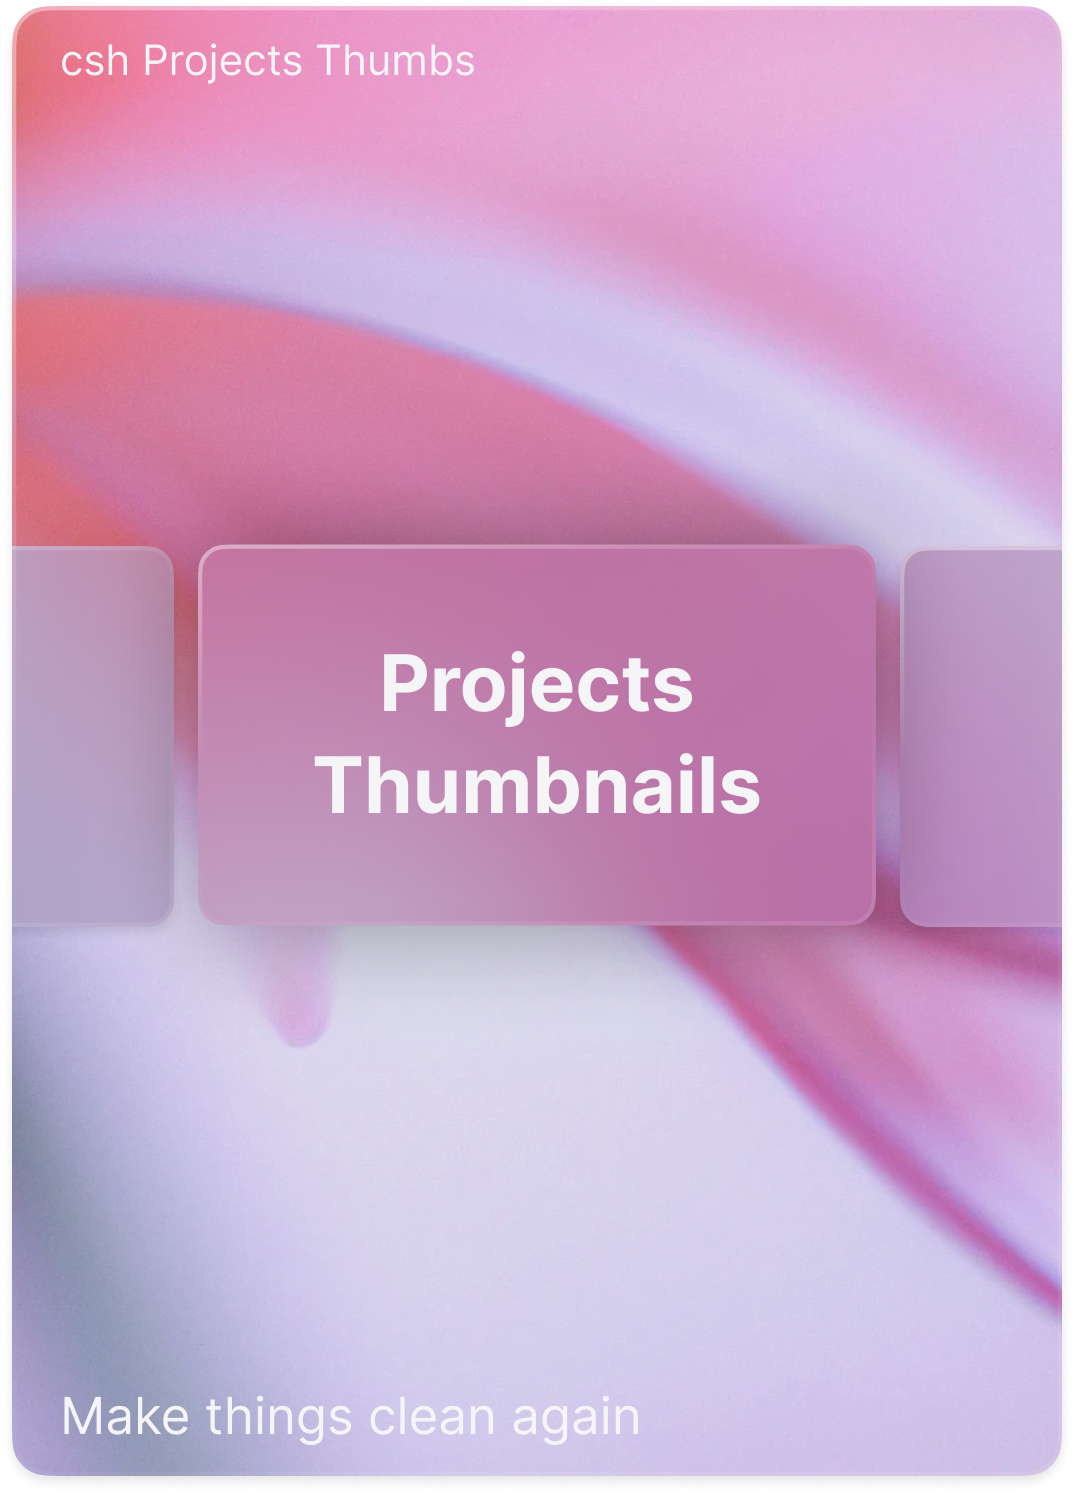
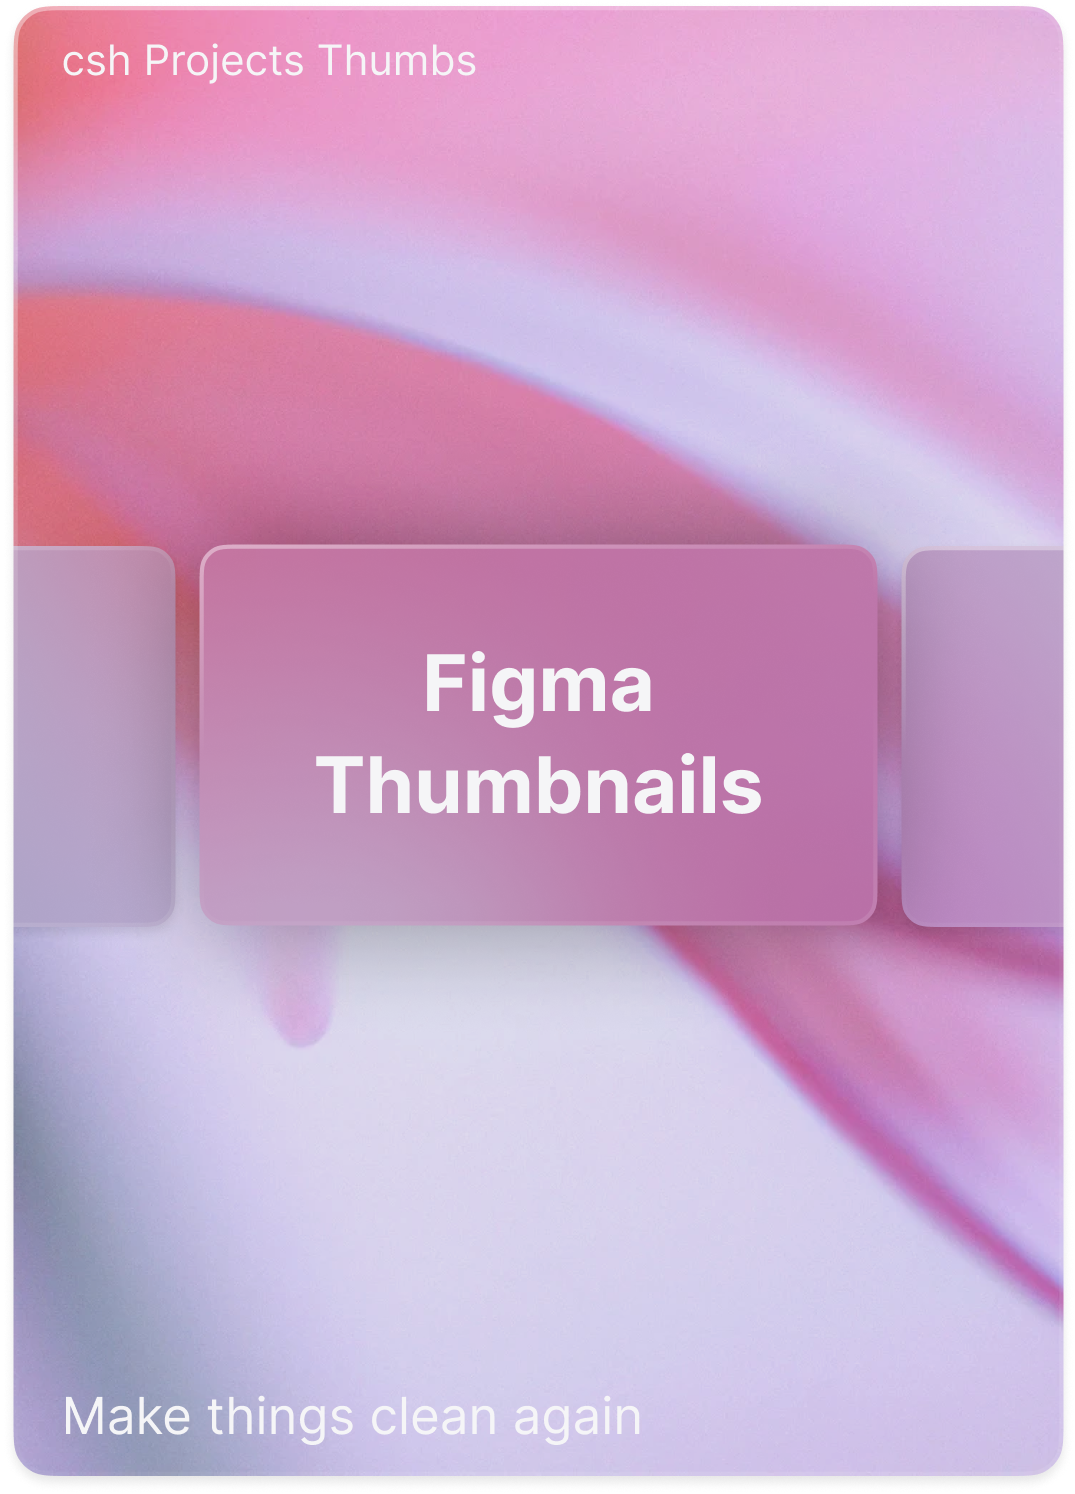
page designs terminé à 80%

diff --git a/src/components/Carrousel/Design-graphicdesing.tsx b/src/components/Carrousel/Design-graphicdesing.tsx
@@ -5,12 +5,12 @@ import { Navigation } from 'swiper/modules';
 import 'swiper/css';
 import 'swiper/css/navigation';
 
-export default function WebDesignCarousel() {
-  const webSlides = [
-    { id: 1, title: 'Skorpia.fr', bio: 'Redécouvrez l\'hebergement.', href: 'https://skorpia.fr', img: '/design/skorpia.png'},
-    { id: 2, title: 'Avalanche.tv', bio: 'A new universe to create.', href: 'https://avalanche.tv', img: '/design/avalanche.png'},
-    { id: 3, title: 'Wikipedia.org', bio: 'Simplicity at the core.', href: '/design/wikipedia', img: '/design/wikipedia.png'},
-    { id: 4, title: 'Croissantage.com', bio: 'Cyber-eductation for your team.', href: 'https://croissantage.com', img: '/design/croissantage.png'},
+export default function GraphicDesignCarousel() {
+  const graphicSlides = [
+    { id: 1, title: 'Arc commpagny sum', bio: 'Annual review catalog', href: '/design', img: '/design/arc.png'},
+    { id: 2, title: 'Beauregard 2026', bio: 'Musical festival poster', href: '/design', img: '/design/beauregard2026.png'},
+    { id: 3, title: 'Modern Bauhaus', bio: 'Modern Bauhaus poster', href: '/design', img: '/design/bauhaus.png'},
+    { id: 4, title: 'Arcane New Typo', bio: 'New Typo Arcane poster', href: '/design', img: '/design/arcane.png'},
 
   ];
 
@@ -18,12 +18,12 @@ export default function WebDesignCarousel() {
     <div className="max-w mx-auto py-8 gap-4">
       <div className="flex mx-auto items-center justify-between items-center max-w-[1100px] py-8">  
             <h2 className=" text-[16px] lg:text-[26px] font-semibold text-gris_2">
-                <span className="text-noir dark:text-blanc">Web Design.</span> Seamless and intuitive online experiences.
+                <span className="text-noir dark:text-blanc">Graphic Design.</span> Beauty that elevates your message.
             </h2>
             {/* Flèches personnalisées */}
-            <div className="flex ">
+            <div className="flex">
                 <button
-                className="swiper-button-prev-custom p-4"
+                className="swiper-button-prev-custom-3 p-4"
                 aria-label="back"
                 >
                 <svg width="24" height="24" viewBox="0 0 20 20" fill="none" xmlns="http://www.w3.org/2000/svg">
@@ -32,7 +32,7 @@ export default function WebDesignCarousel() {
                 </button>
 
                 <button
-                className="swiper-button-next-custom p-4"
+                className="swiper-button-next-custom-3 p-4"
                 aria-label="next"
                 >
                     <svg width="24" height="24" viewBox="0 0 20 20" fill="none" xmlns="http://www.w3.org/2000/svg">
@@ -47,8 +47,8 @@ export default function WebDesignCarousel() {
         spaceBetween={20}
         slidesPerView={1.5}
         navigation={{
-            nextEl: '.swiper-button-next-custom',
-            prevEl: '.swiper-button-prev-custom',
+            nextEl: '.swiper-button-next-custom-3',
+            prevEl: '.swiper-button-prev-custom-3',
           }}
         breakpoints={{
           640: { slidesPerView: 2 },
@@ -57,15 +57,15 @@ export default function WebDesignCarousel() {
         className="relative flex min-w-full snap-x snap-mandatory"
         style={{ paddingLeft: "calc(50% - 68rem / 2)" }}
         >
-        {webSlides.map((webSlides) => (
-          <SwiperSlide key={webSlides.id}>
+        {graphicSlides.map((graphicSlides) => (
+          <SwiperSlide key={graphicSlides.id}>
             <a 
             className="h-[490px] w-[350px] rounded-xl !overflow-y-visible flex justify-center items-center flex flex-col transition ease-in-out hover:drop-shadow-md duration-250"            
-            href={webSlides.href}
-            target={webSlides.href.startsWith('https') ? '_blank' : undefined}
-            rel={webSlides.href.startsWith('https') ? 'noopener noreferrer' : undefined}
+            href={graphicSlides.href}
+            target={graphicSlides.href.startsWith('https') ? '_blank' : undefined}
+            rel={graphicSlides.href.startsWith('https') ? 'noopener noreferrer' : undefined}
             >
-              <img src={webSlides.img} alt={webSlides.bio} className='w-full h-full object-cover'/>
+              <img src={graphicSlides.img} alt={graphicSlides.bio} className='w-full h-full object-cover'/>
             </a>
           </SwiperSlide>
         ))}

diff --git a/src/components/Carrousel/Design-appdesing.tsx b/src/components/Carrousel/Design-appdesing.tsx
@@ -5,12 +5,11 @@ import { Navigation } from 'swiper/modules';
 import 'swiper/css';
 import 'swiper/css/navigation';
 
-export default function WebDesignCarousel() {
-  const webSlides = [
-    { id: 1, title: 'Skorpia.fr', bio: 'Redécouvrez l\'hebergement.', href: 'https://skorpia.fr', img: '/design/skorpia.png'},
-    { id: 2, title: 'Avalanche.tv', bio: 'A new universe to create.', href: 'https://avalanche.tv', img: '/design/avalanche.png'},
-    { id: 3, title: 'Wikipedia.org', bio: 'Simplicity at the core.', href: '/design/wikipedia', img: '/design/wikipedia.png'},
-    { id: 4, title: 'Croissantage.com', bio: 'Cyber-eductation for your team.', href: 'https://croissantage.com', img: '/design/croissantage.png'},
+export default function AppDesignCarousel() {
+  const appSlides = [
+    { id: 1, title: 'Wattiz', bio: 'Empower the ride', href: '/design', img: '/design/wattiz.png'},
+    { id: 2, title: 'Retro Pizza', bio: 'Street good', href: '/design', img: '/design/pizza.png'},
+    { id: 3, title: 'eMusic', bio: 'Musical freedom at your hand', href: '/design', img: '/design/emusic.png'},
 
   ];
 
@@ -18,12 +17,12 @@ export default function WebDesignCarousel() {
     <div className="max-w mx-auto py-8 gap-4">
       <div className="flex mx-auto items-center justify-between items-center max-w-[1100px] py-8">  
             <h2 className=" text-[16px] lg:text-[26px] font-semibold text-gris_2">
-                <span className="text-noir dark:text-blanc">Web Design.</span> Seamless and intuitive online experiences.
+                <span className="text-noir dark:text-blanc">App Design.</span> Designed to amaze, built to last.
             </h2>
             {/* Flèches personnalisées */}
-            <div className="flex ">
+            <div className="flex">
                 <button
-                className="swiper-button-prev-custom p-4"
+                className="swiper-button-prev-custom-2 p-4"
                 aria-label="back"
                 >
                 <svg width="24" height="24" viewBox="0 0 20 20" fill="none" xmlns="http://www.w3.org/2000/svg">
@@ -32,7 +31,7 @@ export default function WebDesignCarousel() {
                 </button>
 
                 <button
-                className="swiper-button-next-custom p-4"
+                className="swiper-button-next-custom-2 p-4"
                 aria-label="next"
                 >
                     <svg width="24" height="24" viewBox="0 0 20 20" fill="none" xmlns="http://www.w3.org/2000/svg">
@@ -47,8 +46,8 @@ export default function WebDesignCarousel() {
         spaceBetween={20}
         slidesPerView={1.5}
         navigation={{
-            nextEl: '.swiper-button-next-custom',
-            prevEl: '.swiper-button-prev-custom',
+            nextEl: '.swiper-button-next-custom-2',
+            prevEl: '.swiper-button-prev-custom-2',
           }}
         breakpoints={{
           640: { slidesPerView: 2 },
@@ -57,15 +56,15 @@ export default function WebDesignCarousel() {
         className="relative flex min-w-full snap-x snap-mandatory"
         style={{ paddingLeft: "calc(50% - 68rem / 2)" }}
         >
-        {webSlides.map((webSlides) => (
-          <SwiperSlide key={webSlides.id}>
+        {appSlides.map((appSlides) => (
+          <SwiperSlide key={appSlides.id}>
             <a 
             className="h-[490px] w-[350px] rounded-xl !overflow-y-visible flex justify-center items-center flex flex-col transition ease-in-out hover:drop-shadow-md duration-250"            
-            href={webSlides.href}
-            target={webSlides.href.startsWith('https') ? '_blank' : undefined}
-            rel={webSlides.href.startsWith('https') ? 'noopener noreferrer' : undefined}
+            href={appSlides.href}
+            target={appSlides.href.startsWith('https') ? '_blank' : undefined}
+            rel={appSlides.href.startsWith('https') ? 'noopener noreferrer' : undefined}
             >
-              <img src={webSlides.img} alt={webSlides.bio} className='w-full h-full object-cover'/>
+              <img src={appSlides.img} alt={appSlides.bio} className='w-full h-full object-cover'/>
             </a>
           </SwiperSlide>
         ))}

diff --git a/src/components/Carrousel/Design-research.tsx b/src/components/Carrousel/Design-research.tsx
@@ -5,12 +5,9 @@ import { Navigation } from 'swiper/modules';
 import 'swiper/css';
 import 'swiper/css/navigation';
 
-export default function WebDesignCarousel() {
-  const webSlides = [
-    { id: 1, title: 'Skorpia.fr', bio: 'Redécouvrez l\'hebergement.', href: 'https://skorpia.fr', img: '/design/skorpia.png'},
-    { id: 2, title: 'Avalanche.tv', bio: 'A new universe to create.', href: 'https://avalanche.tv', img: '/design/avalanche.png'},
-    { id: 3, title: 'Wikipedia.org', bio: 'Simplicity at the core.', href: '/design/wikipedia', img: '/design/wikipedia.png'},
-    { id: 4, title: 'Croissantage.com', bio: 'Cyber-eductation for your team.', href: 'https://croissantage.com', img: '/design/croissantage.png'},
+export default function ResearchCarousel() {
+  const reseearchSlides = [
+    { id: 1, title: 'Bento Trend', bio: 'La Bento trend expliqué', href: 'https://medium.com/@clement.sainthilaire.app/la-bento-trend-f3ae36719425', img: '/design/research/bento.png'},
 
   ];
 
@@ -18,12 +15,12 @@ export default function WebDesignCarousel() {
     <div className="max-w mx-auto py-8 gap-4">
       <div className="flex mx-auto items-center justify-between items-center max-w-[1100px] py-8">  
             <h2 className=" text-[16px] lg:text-[26px] font-semibold text-gris_2">
-                <span className="text-noir dark:text-blanc">Web Design.</span> Seamless and intuitive online experiences.
+                <span className="text-noir dark:text-blanc">csh Writings.</span> Insights that shape the future.
             </h2>
             {/* Flèches personnalisées */}
-            <div className="flex ">
+            <div className="flex">
                 <button
-                className="swiper-button-prev-custom p-4"
+                className="swiper-button-prev-custom-4 p-4"
                 aria-label="back"
                 >
                 <svg width="24" height="24" viewBox="0 0 20 20" fill="none" xmlns="http://www.w3.org/2000/svg">
@@ -32,7 +29,7 @@ export default function WebDesignCarousel() {
                 </button>
 
                 <button
-                className="swiper-button-next-custom p-4"
+                className="swiper-button-next-custom-4 p-4"
                 aria-label="next"
                 >
                     <svg width="24" height="24" viewBox="0 0 20 20" fill="none" xmlns="http://www.w3.org/2000/svg">
@@ -47,8 +44,8 @@ export default function WebDesignCarousel() {
         spaceBetween={20}
         slidesPerView={1.5}
         navigation={{
-            nextEl: '.swiper-button-next-custom',
-            prevEl: '.swiper-button-prev-custom',
+            nextEl: '.swiper-button-next-custom-4',
+            prevEl: '.swiper-button-prev-custom-4',
           }}
         breakpoints={{
           640: { slidesPerView: 2 },
@@ -57,15 +54,15 @@ export default function WebDesignCarousel() {
         className="relative flex min-w-full snap-x snap-mandatory"
         style={{ paddingLeft: "calc(50% - 68rem / 2)" }}
         >
-        {webSlides.map((webSlides) => (
-          <SwiperSlide key={webSlides.id}>
+        {reseearchSlides.map((reseearchSlides) => (
+          <SwiperSlide key={reseearchSlides.id}>
             <a 
             className="h-[490px] w-[350px] rounded-xl !overflow-y-visible flex justify-center items-center flex flex-col transition ease-in-out hover:drop-shadow-md duration-250"            
-            href={webSlides.href}
-            target={webSlides.href.startsWith('https') ? '_blank' : undefined}
-            rel={webSlides.href.startsWith('https') ? 'noopener noreferrer' : undefined}
+            href={reseearchSlides.href}
+            target={reseearchSlides.href.startsWith('https') ? '_blank' : undefined}
+            rel={reseearchSlides.href.startsWith('https') ? 'noopener noreferrer' : undefined}
             >
-              <img src={webSlides.img} alt={webSlides.bio} className='w-full h-full object-cover'/>
+              <img src={reseearchSlides.img} alt={reseearchSlides.bio} className='w-full h-full object-cover'/>
             </a>
           </SwiperSlide>
         ))}

diff --git a/src/components/Carrousel/Design-recentwork.tsx b/src/components/Carrousel/Design-recentwork.tsx
@@ -7,10 +7,10 @@ import 'swiper/css/navigation';
 
 export default function RecentWorkCarousel() {
   const slides = [
-    { id: 1, title: 'csh Design System', bio: 'La simplicité à votre service.', href: '/design-system', img: '/design/design-system.png'},
-    { id: 2, title: 'Figma Thumbs',  bio: '', href: '/https://www.figma.com/community/file/1421800356040679325/figma-thumbs-design-template', img: '/design/project-thumbnail.png' },
-    { id: 3, title: 'csh UI Landing Kit',  bio: '', href: '/uikit', img: '/design/landing-kit.png' },
-    { id: 4, title: 'csh Icons',  bio: '', href: '/icons', img: '/design/icons.png' },
+    { id: 1, title: 'csh Design System', bio: 'Work smarter, not harder', href: '/design-system', img: '/design/design-system.png'},
+    { id: 2, title: 'Figma Thumbs',  bio: 'Make things clean again', href: 'https://www.figma.com/community/file/1421800356040679325/figma-thumbs-design-template', img: '/design/project-thumbnail.png' },
+    { id: 3, title: 'csh UI Landing Kit',  bio: 'Made by Pro for Pros', href: '/uikit', img: '/design/landing-kit.png' },
+    { id: 4, title: 'csh Icons',  bio: 'Simply beautiful', href: '/icons', img: '/design/icons.png' },
   ];
 
   return (
@@ -59,10 +59,12 @@ export default function RecentWorkCarousel() {
         {slides.map((slide) => (
           <SwiperSlide key={slide.id}>
             <a 
-            className="h-[490px] w-[350px] rounded-xl !overflow-y-visible flex justify-center items-center flex flex-col transition ease-in-out hover:drop-shadow-md duration-250"            
-            href={slide.href}
+            className="h-[490px] w-[350px] rounded-xl !overflow-y-visible flex justify-center items-center flex flex-col"            
+            href={slide.href} 
+            target={slide.href.startsWith('https') ? '_blank' : undefined}
+            rel={slide.href.startsWith('https') ? 'noopener noreferrer' : undefined}
             >
-              <img src={slide.img} alt={slide.title} className='w-full h-full object-cover'/>
+              <img src={slide.img} alt={slide.bio} className='w-full h-full object-cover'/>
             </a>
           </SwiperSlide>
         ))}

diff --git a/src/app/design/page.tsx b/src/app/design/page.tsx
@@ -4,6 +4,9 @@ import BlurFadeText from "@/components/magicui/blur-fade-text";
 import Footer from "@/components/Footer";
 import RecentWorkCarousel from "@/components/Carrousel/Design-recentwork";  
 import WebDesignCarousel from "@/components/Carrousel/Design-webdesing";
+import AppDesignCarousel from "@/components/Carrousel/Design-appdesing";
+import GraphicDesignCarousel from "@/components/Carrousel/Design-graphicdesing";
+import ResearchCarousel from "@/components/Carrousel/Design-research";
 const BLUR_FADE_DELAY = 0.04;
 
 
@@ -11,7 +14,7 @@ export default function Page() {
   return (
     <main className="flex flex-col min-h-[100dvh]">
 
-        <section id="hero" className="flex min-h-[40dvh] flex-1 items-center justify-center text-center">
+        <section id="hero" className="flex min-h-[20dvh] flex-1 items-center justify-center text-center">
             <div className="w-full max-w-2xl space-y-8 mx-auto">
                 <div className="flex flex-col items-center justify-center space-y-1.5">
                     <BlurFadeText
@@ -36,6 +39,15 @@ export default function Page() {
             </BlurFade>
             <BlurFade>
               <WebDesignCarousel />
+            </BlurFade>
+            <BlurFade>
+              <AppDesignCarousel />
+            </BlurFade>
+            <BlurFade>
+              <GraphicDesignCarousel />
+            </BlurFade>
+            <BlurFade>
+              <ResearchCarousel />
             </BlurFade>
           </div>
         </section>
